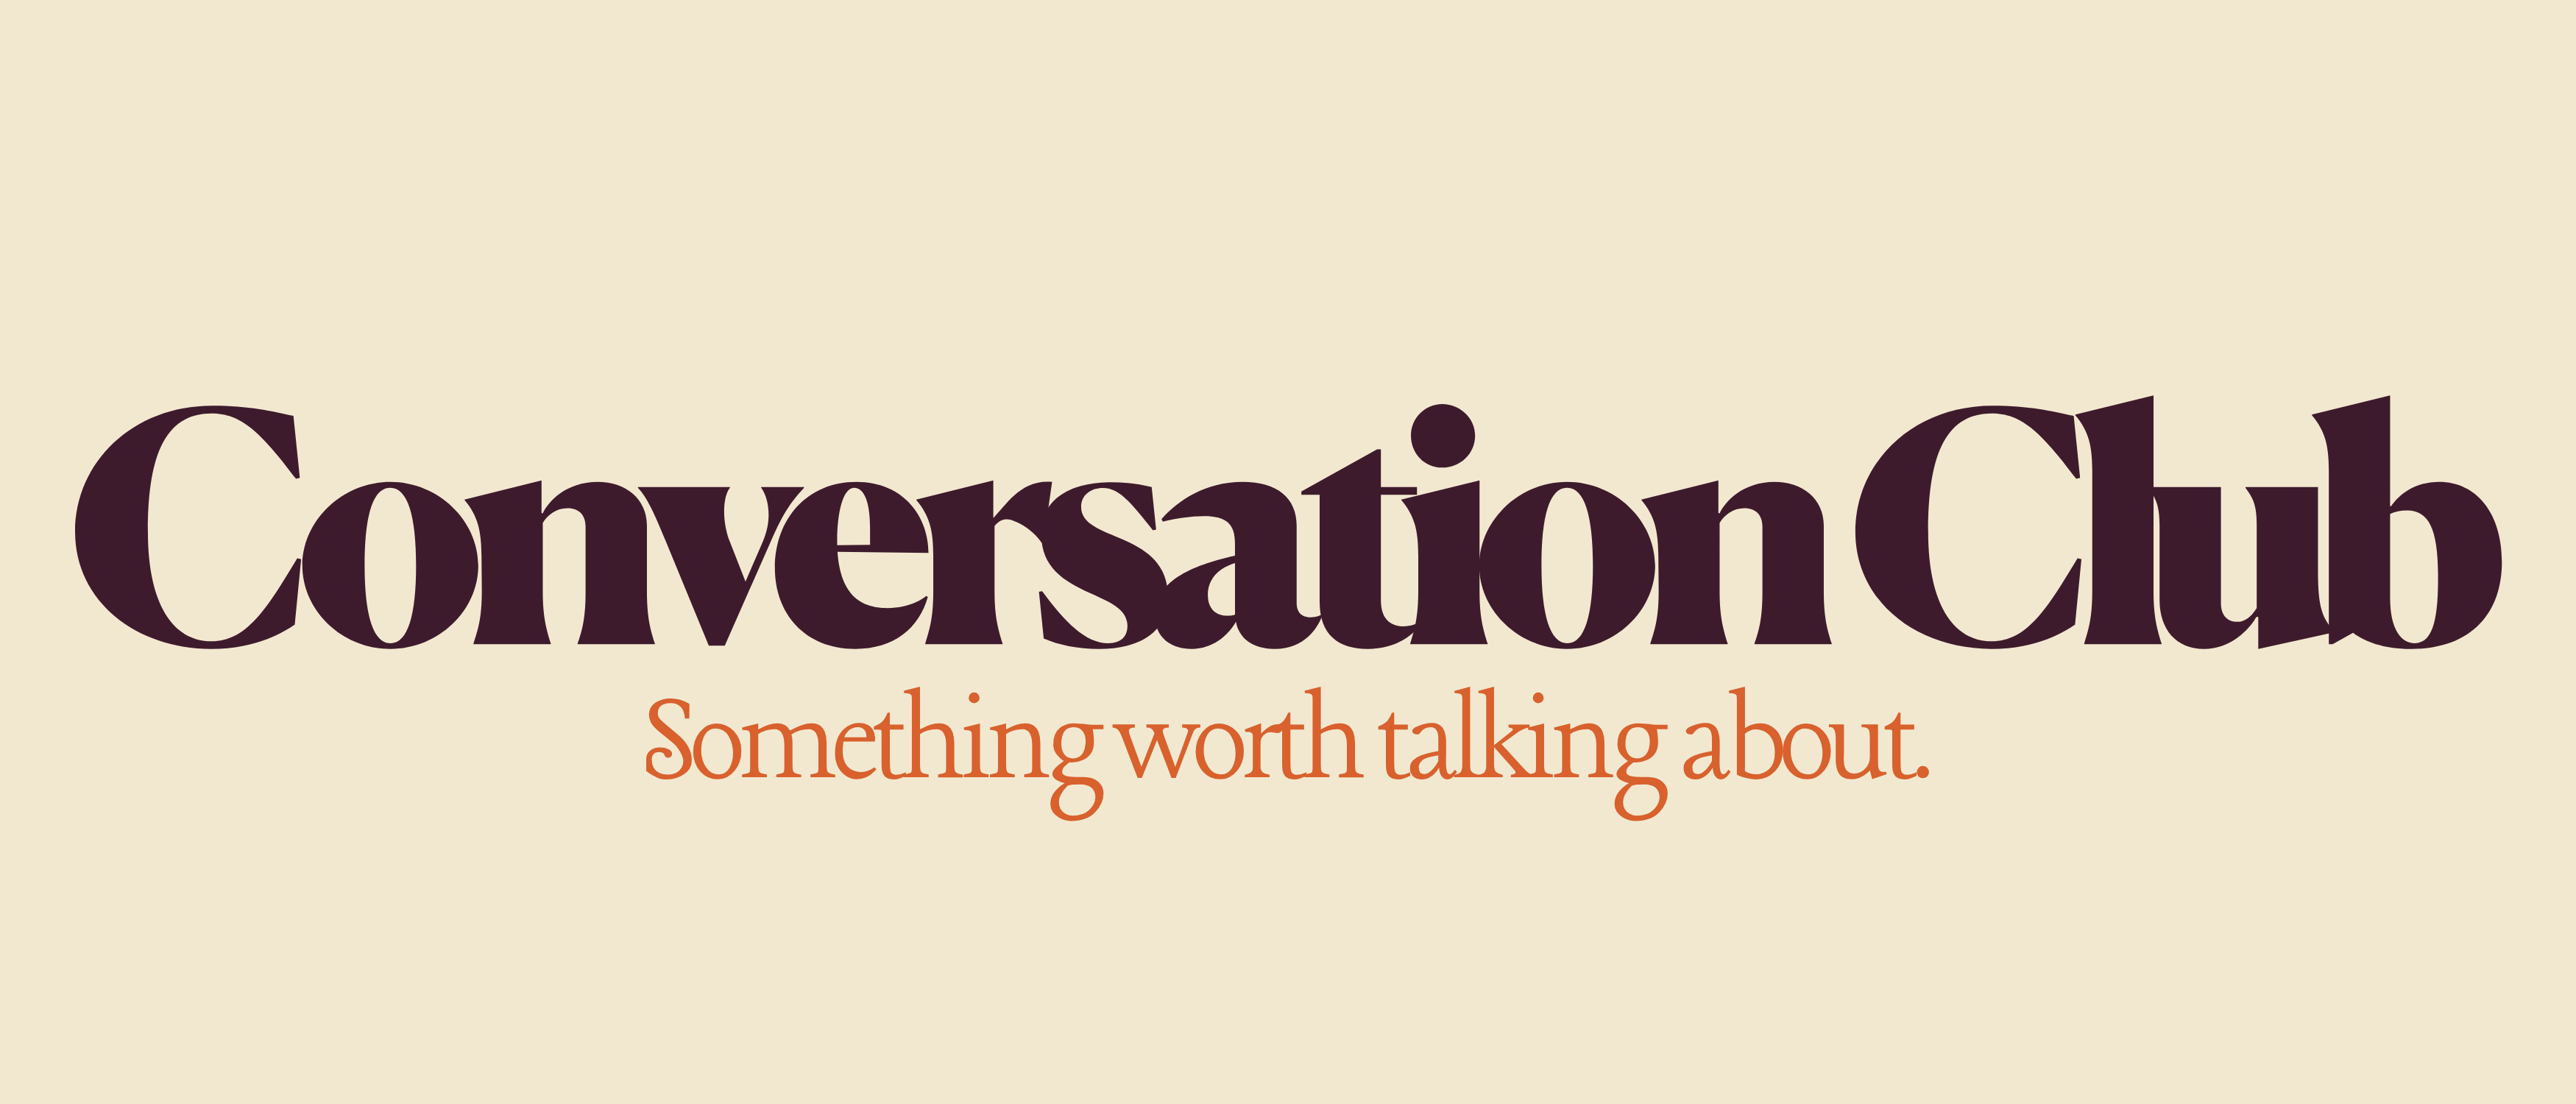
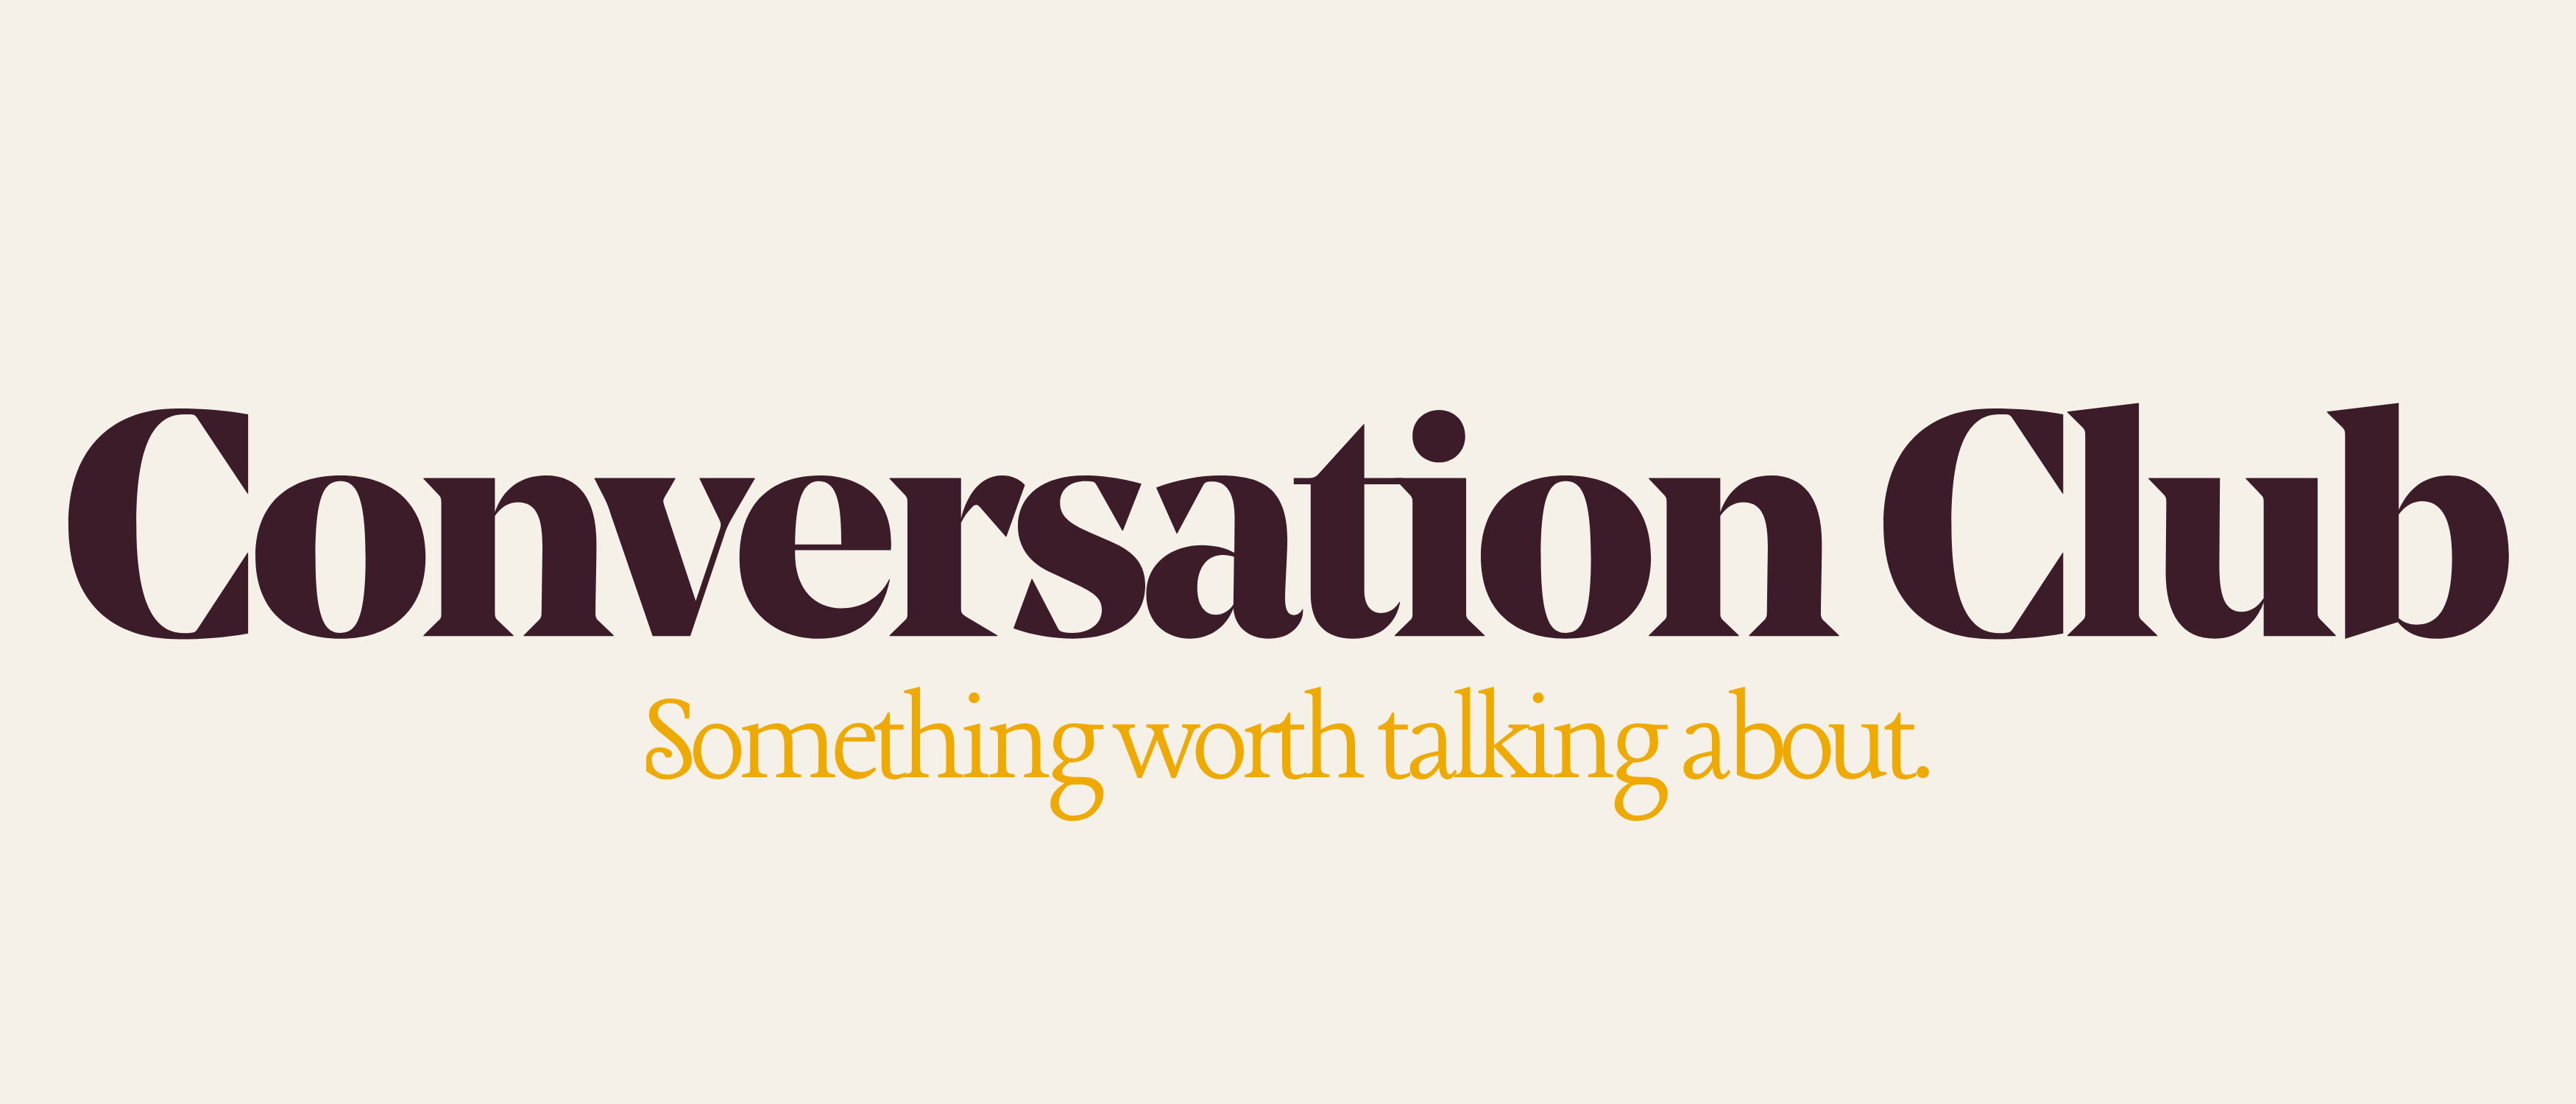
Update hero image, remove italic, tighten spacing, widen containers
- Replaced hero lockup with updated image
- Removed italic brand-line from hero section
- Tightened letter-spacing on hero headline (-0.04em)
- Widened all text containers to 48rem for more one-liners
- Product images stack vertically on mobile
- All body copy on single lines where possible on desktop

Changed region(s): [[0.0, 0.3373, 0.9966, 0.6133], [0.2491, 0.6133, 0.7474, 0.736]]

diff --git a/components/waitlist-flow.tsx b/components/waitlist-flow.tsx
@@ -12,18 +12,15 @@ export function WaitlistFlow() {
           The good kind of mail.
         </h1>
 
-        <div className="mx-auto mt-6 max-w-[42rem] text-[1.0625rem] leading-[1.65] text-[var(--color-espresso)]">
+        <div className="mx-auto mt-6 max-w-[48rem] text-[1.0625rem] leading-[1.65] text-[var(--color-espresso)]">
           <p>
-            A personal essay and a conversation card, mailed to your
-            door every month.
+            A personal essay and a conversation card, mailed to your door every month.
           </p>
-          <p className="brand-line">
-            Read the letter with your morning coffee. Bring the card
-            to your next dinner.
+          <p className="mt-4">
+            Read the letter with your morning coffee. Bring the card to your next dinner.
           </p>
-          <p>
-            It&apos;s the kind of thing you&apos;ll want to organize
-            something around.
+          <p className="mt-4">
+            It&apos;s the kind of thing you&apos;ll want to organize something around.
           </p>
         </div>
 
@@ -41,24 +38,21 @@ export function WaitlistFlow() {
         className="section-band section-band-idea section-gap mt-0 text-center"
       >
         <div className="section-inner">
-          <div className="mx-auto max-w-[48rem]">
+          <div className="mx-auto max-w-[56rem]">
             <p className="eyebrow">Why I started this</p>
             <h2
               id="the-idea-heading"
-              className="section-title mx-auto mt-4 max-w-[42rem]"
+              className="section-title mx-auto mt-4 max-w-[48rem]"
             >
               You know that feeling after a really good conversation?
             </h2>
 
-            <div className="mx-auto mt-6 max-w-[42rem] text-[1.0625rem] leading-[1.65] text-[var(--color-espresso)]">
+            <div className="mx-auto mt-6 max-w-[48rem] text-[1.0625rem] leading-[1.65] text-[var(--color-espresso)]">
               <p>
-                When you drove home still thinking about what somebody said after
-                staying at the table way too long.
+                When you drove home still thinking about what somebody said after staying at the table way too long.
               </p>
               <p className="mt-5">
-                I started The Conversation Club because I want more of that.
-                And in a world where so much life has moved onto a screen,
-                I think a lot of us do.
+                I started The Conversation Club because I want more of that. And in a world where so much life has moved onto a screen, I think a lot of us do.
               </p>
               <p className="mt-5">
                 So this is a reason to create more of those moments.
@@ -78,8 +72,7 @@ export function WaitlistFlow() {
                     Written by Tori Winders
                   </p>
                   <p className="mt-0.5 text-[0.85rem] text-[var(--color-espresso)]">
-                    Writer, optimizer, and someone who thinks way too much about
-                    conversation.
+                    Writer, optimizer, and someone who thinks way too much about conversation.
                   </p>
                 </div>
                 <svg
@@ -109,25 +102,21 @@ export function WaitlistFlow() {
         className="section-band section-band-who section-gap text-center"
       >
         <div className="section-inner">
-          <div className="mx-auto max-w-[48rem]">
+          <div className="mx-auto max-w-[56rem]">
             <p className="eyebrow">Is this you?</p>
             <h2
               id="who-heading"
-              className="section-title mx-auto mt-4 max-w-[42rem]"
+              className="section-title mx-auto mt-4 max-w-[48rem]"
             >
               For women who love beautiful things and even better conversations.
             </h2>
 
-            <div className="mx-auto mt-6 max-w-[42rem] text-[1.0625rem] leading-[1.65] text-[var(--color-espresso)]">
+            <div className="mx-auto mt-6 max-w-[48rem] text-[1.0625rem] leading-[1.65] text-[var(--color-espresso)]">
               <p>
-                If you still get excited about something arriving in the mail.
-                If you&apos;re the one who brings the question nobody else would
-                have thought to ask. If you&apos;ve ever driven home from a dinner
-                feeling like your cup was completely full.
+                If you still get excited about something arriving in the mail. If you&apos;re the one who brings the question nobody else would have thought to ask. If you&apos;ve ever driven home from a dinner feeling like your cup was completely full.
               </p>
               <p className="mt-5">
-                This is a small, beautiful, offline thing for people who already
-                know they want more of the real stuff.
+                This is a small, beautiful, offline thing for people who already know they want more of the real stuff.
               </p>
             </div>
 
@@ -151,16 +140,14 @@ export function WaitlistFlow() {
             <p className="eyebrow">Limited to 100 founding members</p>
             <h2
               id="founding-member-heading"
-              className="section-title mx-auto mt-4 max-w-[44rem]"
+              className="section-title mx-auto mt-4 max-w-[48rem]"
             >
               This isn&apos;t launching to everyone.
             </h2>
 
-            <div className="mx-auto mt-6 max-w-[42rem] text-[1.0625rem] leading-[1.65]">
+            <div className="mx-auto mt-6 max-w-[48rem] text-[1.0625rem] leading-[1.65]">
               <p>
-                The first 100 people on the waitlist become founding members.
-                You&apos;ll get first access, a locked-in price, and a say in
-                what this thing becomes.
+                The first 100 people on the waitlist become founding members. You&apos;ll get first access, a locked-in price, and a say in what this thing becomes.
               </p>
               <p className="mt-5">
                 If you&apos;re reading this, the door is still open.

diff --git a/app/globals.css b/app/globals.css
@@ -304,16 +304,7 @@ body {
   font-size: 2.25rem;
   font-weight: 700;
   line-height: 1.1;
-  letter-spacing: -0.02em;
-}
-
-.hero-section .brand-line {
-  font-family: var(--font-brand);
-  font-style: italic;
-  font-size: 1.25rem;
-  color: var(--color-plum);
-  margin-top: 1.5rem;
-  margin-bottom: 1rem;
+  letter-spacing: -0.04em;
 }
 
 /* ── Cards ── */
@@ -548,6 +539,7 @@ footer .brand-name {
 
   .hero-section h1 {
     font-size: 3.25rem;
+    letter-spacing: -0.04em;
   }
 }
 

diff --git a/components/product-preview.tsx b/components/product-preview.tsx
@@ -9,17 +9,17 @@ export function ProductPreview() {
         <div className="mx-auto max-w-[48rem]">
           <p className="eyebrow">What shows up</p>
 
-          <h2 className="section-title mx-auto mt-4 max-w-[42rem]">
+          <h2 className="section-title mx-auto mt-4 max-w-[48rem]">
             An essay. A question.
             <br />
             And a reason to plan something.
           </h2>
-          <p className="mx-auto mt-4 max-w-[42rem] text-[1.0625rem] leading-[1.65] text-[var(--color-espresso)]">
+          <p className="mx-auto mt-4 max-w-[48rem] text-[1.0625rem] leading-[1.65] text-[var(--color-espresso)]">
             Everything arrives in an envelope designed to feel like it matters.
           </p>
 
           {/* Product images */}
-          <div className="mx-auto mt-12 flex max-w-[48rem] items-start justify-center gap-6 sm:gap-10">
+          <div className="mx-auto mt-12 flex max-w-[48rem] flex-col items-center gap-10 sm:flex-row sm:items-start sm:justify-center">
             <div className="product-image-rotate w-full max-w-[14rem]" style={{ animationDelay: "0s" }}>
               <img
                 src="/images/conversation-cards.png"